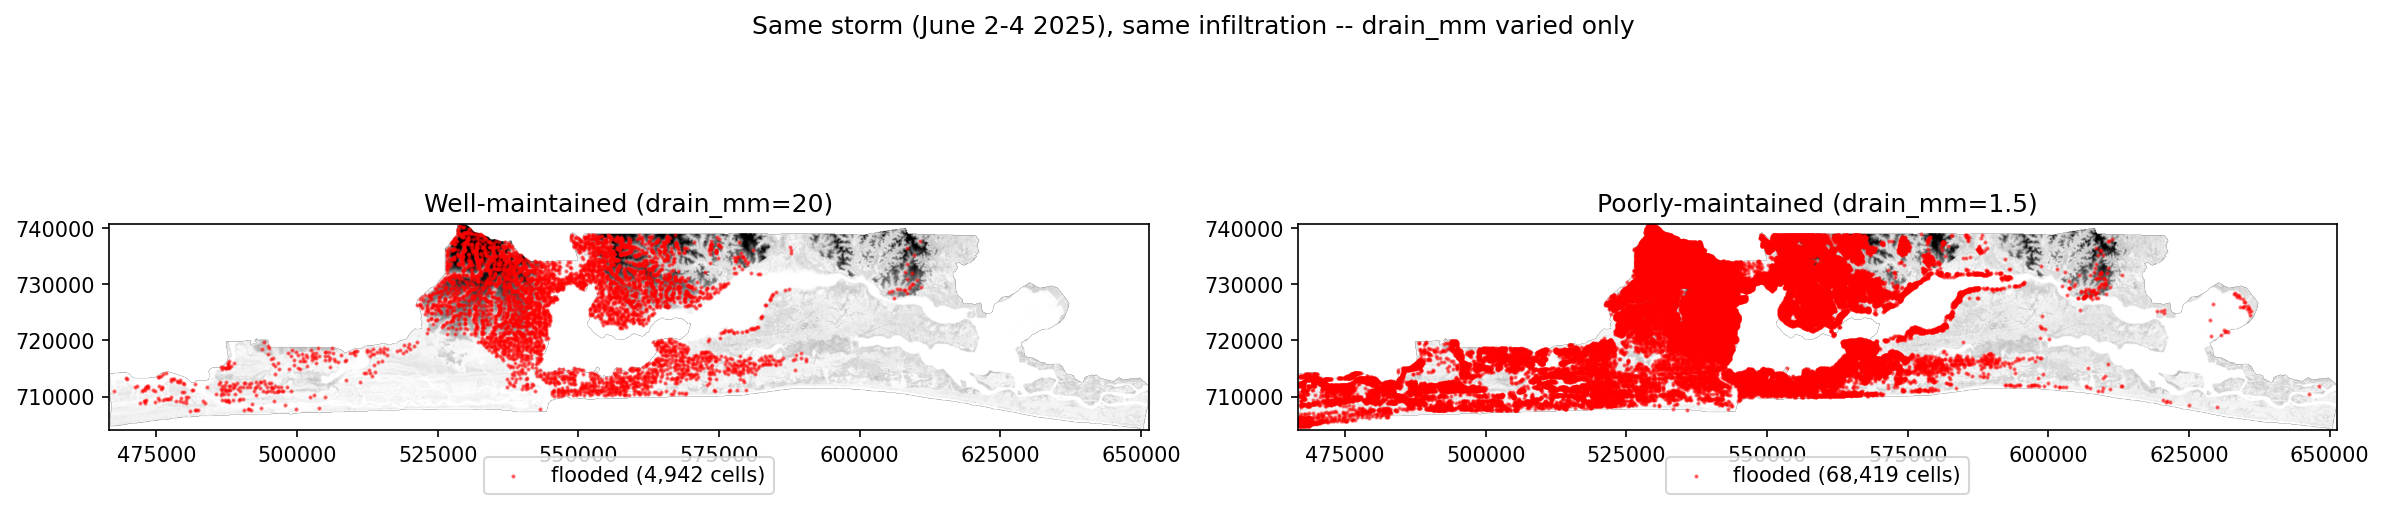
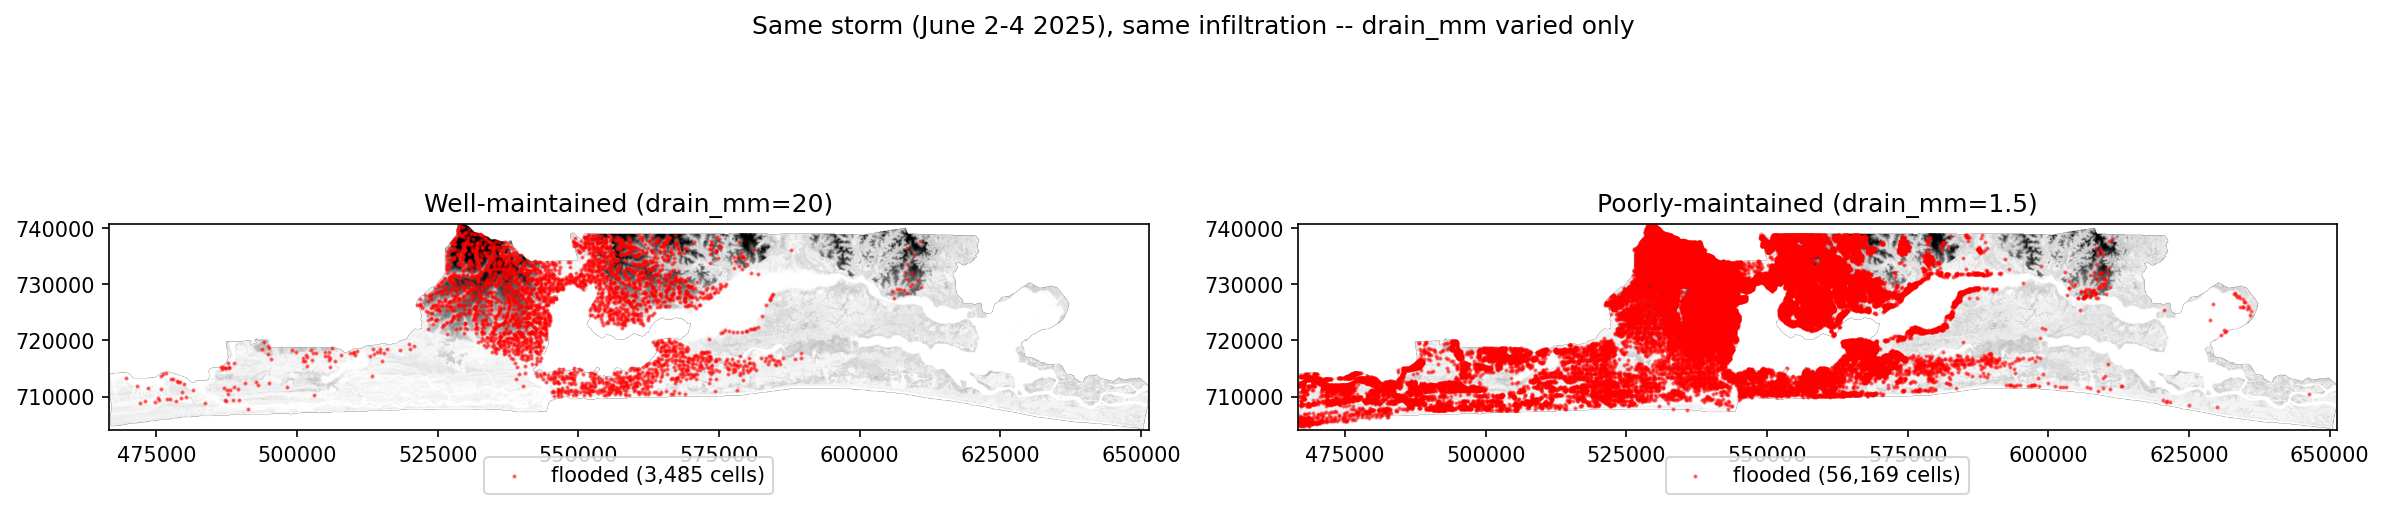
feat: standing-depth drainage (recession), closes out core mechanic
model/flood_model.py: at the start of each apply_rainfall() call, before
that day's rainfall is used, water_depth now drains by up to drain_mm
per cell (floored at zero, uniform including at pits, drained amount
added to exited_total_mm_cells). Sequenced before that day's
rainfall/routing/cap pipeline specifically so drain_mm isn't spent twice
against the same day's fresh water in one call. Pits get no special
handling -- this is a local, target-independent loss (soak-away, minor
conveyance, eventual pumping), consistent with how drain_mm already
worked, untargeted, against fresh rainfall before the per-hop cap
existed. This is what fixes the previously-flagged "never recedes" gap:
water_depth can now go down between calls, not just up.

scripts/smoke_test_drainage_scenarios.py: re-ran June 2-4 well (drain=20)
vs poor (drain=1.5). Final-day flooded 0.98% vs 15.82% (16.1x), built-up
core 4.28% vs 68.14%. Now that current and peak are distinguishable:
26.7% of well-maintained's peak-flooded cells had already receded by day
3, vs 0.01% under poor maintenance -- poor drainage doesn't just flood
more, it keeps what floods underwater far longer, a distinct axis of the
human-cost argument from extent alone.

CLAUDE.md Phase 3: recession note updated from provisional-pending to
implemented-with-results. Added two deferred items per request:
exited_total_mm_cells currently conflates two physical fates (surface-
routing exit vs. standing-depth recession) and may be worth splitting;
[…]

diff --git a/model/flood_model.py b/model/flood_model.py
@@ -79,6 +79,21 @@ Checked empirically at drain_mm=1.5 (the more constrained of the two
 tested scenarios): hop counts stayed in the same range as the uncapped
 version, no sign of the slow-convergence failure mode.
 
+Standing-depth drainage (recession): at the start of each apply_rainfall()
+call, before that day's rainfall is used at all, water_depth is reduced
+by up to drain_mm per cell, floored at zero, applied uniformly including
+at pits, with the drained amount added to exited_total_mm_cells. This is
+what fixes the previously-flagged "never recedes" gap -- water_depth can
+now go down between calls, not just up. Sequencing is deliberate: this
+happens BEFORE today's rainfall/routing/cap pipeline, not after and not
+merged with it, specifically so drain_mm isn't spent twice on the same
+day's fresh water (once here against old depth, again via the per-hop
+cap against new depth). Pits get no special-casing: this is a local,
+target-independent loss (soak-away, minor unmodeled conveyance, eventual
+pumping), not routing, so "no downhill neighbor" is irrelevant to it --
+consistent with how drain_mm was already used untargeted against fresh
+rainfall before the per-hop cap existed.
+
 Known limitation, not resolved here: infil_mm/drain_mm are still applied
 once per *daily* call as flat hourly-rate-shaped numbers, not scaled to
 a day. Less severe now that infiltration is land-cover-grounded rather
@@ -267,21 +282,41 @@ class FloodModel(mesa.Model):
 
     def apply_rainfall(self, rainfall_mm):
         """
-        One day's step: apply `rainfall_mm` (2D array, (height, width), mm,
-        a single day's CHIRPS total) as a pulse, run infiltration + drainage
+        One day's step: first drain existing standing depth by up to
+        drain_mm (see module docstring, "Standing-depth drainage"), then
+        apply `rainfall_mm` (2D array, (height, width), mm, a single day's
+        CHIRPS total) as a pulse, run infiltration + drainage
         once, then route whatever's left downhill along the flow direction
         field -- repeatedly, until every unit of mobile water has either
         settled at a pit or exited via a flat/off-domain boundary (or the
         defensive hop cap is hit; see module docstring for why that's not
         expected to bind).
 
-        Returns (depth_added, n_hops): this day's contribution to standing
-        depth, and how many routing hops it took to converge -- surfaced
-        for smoke-test / validation reporting, not needed for the state
-        update itself (which already happened, on self.water_depth).
+        Returns (depth_added, n_hops): this day's newly-settled contribution
+        to standing depth (pits + capacity-capped excess from today's
+        rainfall only -- does NOT include the standing-depth drainage
+        applied at the top of this call, which reduces self.water_depth
+        directly before depth_added is even computed), and how many
+        routing hops it took to converge. Surfaced for smoke-test /
+        validation reporting, not needed for the state update itself
+        (which already happened, on self.water_depth).
         """
         valid = self.valid_mask
         flow_dir = self.grid.properties["flow_direction"].data.T
+
+        # Standing-depth drainage: reduce whatever's already accumulated
+        # from previous calls by up to drain_mm, floored at zero, BEFORE
+        # today's rainfall enters the picture at all. Applied uniformly to
+        # every valid cell, pits included -- see module docstring for why
+        # pits get no special-casing here (this is a local, target-independent
+        # loss, not routing) and why "before" rather than "after" today's
+        # pipeline (avoids applying drain_mm twice to the same day's fresh
+        # water, which already goes through the per-hop outflow cap below).
+        water_layer = self.grid.properties["water_depth"]
+        standing = water_layer.data.T
+        drained_standing = np.minimum(standing, self.drain_mm)
+        water_layer.data = (standing - drained_standing).T.copy()
+        self.exited_total_mm_cells += float(drained_standing[valid].sum())
 
         water = np.where(valid, rainfall_mm, 0.0).astype("float64")
         infil = np.minimum(water, self.infil_mm)

diff --git a/scripts/smoke_test_drainage_scenarios.py b/scripts/smoke_test_drainage_scenarios.py
@@ -59,15 +59,17 @@ def run_scenario(data, drain_mm, label):
     model = FloodModel(data["elev"], data["flow_dir"], data["valid"],
                         infil_mm=infil_array, drain_mm=drain_mm)
     hop_counts = []
+    daily_depth_snapshots = []
     for rain in data["daily_rain"]:
         _, n_hops = model.apply_rainfall(rain)
         hop_counts.append(n_hops)
+        daily_depth_snapshots.append(model.water_depth.copy())
     flooded = model.flooded_mask
     print(f"  routing hops per day: {hop_counts} (cap={model.MAX_ROUTING_HOPS})")
-    return model, flooded
+    return model, flooded, daily_depth_snapshots
 
 
-def describe_scenario(data, model, flooded, label):
+def describe_scenario(data, model, flooded, daily_depth_snapshots, label):
     valid = data["valid"]
     n_valid = int(valid.sum())
     n_flooded = int(flooded.sum())
@@ -75,6 +77,21 @@ def describe_scenario(data, model, flooded, label):
     print(f"Flooded: {n_flooded:,} / {n_valid:,} ({100*n_flooded/n_valid:.2f}%)")
     print(f"Max standing depth: {model.water_depth[valid].max():.1f}mm")
     print(f"Exited total: {model.exited_total_mm_cells:,.0f} mm*cells")
+
+    # --- final day vs cumulative peak: only meaningful now that depth can recede ---
+    final_depth = daily_depth_snapshots[-1]
+    peak_depth = np.maximum.reduce(daily_depth_snapshots)
+    final_flooded = (final_depth >= model.flood_threshold_mm) & valid
+    peak_flooded = (peak_depth >= model.flood_threshold_mm) & valid
+    n_final = int(final_flooded.sum())
+    n_peak = int(peak_flooded.sum())
+    receded = int((peak_flooded & ~final_flooded).sum())
+    print(f"\nFinal-day (day 3) flooded: {n_final:,} / {n_valid:,} ({100*n_final/n_valid:.2f}%)")
+    print(f"Cumulative peak (any of the 3 days) flooded: {n_peak:,} / {n_valid:,} ({100*n_peak/n_valid:.2f}%)")
+    print(f"Cells that peaked flooded but had receded below threshold by day 3: {receded:,} "
+          f"({100*receded/n_peak:.2f}% of peak, if peak>0)" if n_peak else "")
+    print(f"Final-day max depth: {final_depth[valid].max():.1f}mm  |  "
+          f"Peak (any day) max depth: {peak_depth[valid].max():.1f}mm")
 
     lc, lc_bands, ward_id, lookup = data["lc"], data["lc_bands"], data["ward_id"], data["lookup"]
     built_up = np.nan_to_num(lc[lc_bands.index("built_up")], nan=0.0)
@@ -130,11 +147,11 @@ def main():
     data = load_grid()
     print("Rainy stretch:", ", ".join(data["daily_labels"]))
 
-    model_wet, flooded_wet = run_scenario(data, 20.0, "WELL-MAINTAINED")
-    stats_wet = describe_scenario(data, model_wet, flooded_wet, "WELL-MAINTAINED (drain_mm=20)")
+    model_wet, flooded_wet, snaps_wet = run_scenario(data, 20.0, "WELL-MAINTAINED")
+    stats_wet = describe_scenario(data, model_wet, flooded_wet, snaps_wet, "WELL-MAINTAINED (drain_mm=20)")
 
-    model_poor, flooded_poor = run_scenario(data, 1.5, "POORLY-MAINTAINED")
-    stats_poor = describe_scenario(data, model_poor, flooded_poor, "POORLY-MAINTAINED (drain_mm=1.5)")
+    model_poor, flooded_poor, snaps_poor = run_scenario(data, 1.5, "POORLY-MAINTAINED")
+    stats_poor = describe_scenario(data, model_poor, flooded_poor, snaps_poor, "POORLY-MAINTAINED (drain_mm=1.5)")
 
     print(f"\n{'='*60}\nCOMPARISON\n{'='*60}")
     print(f"Overall flooded: {100*stats_wet['n_flooded']/stats_wet['n_valid']:.2f}% (well) vs "

diff --git a/CLAUDE.md b/CLAUDE.md
@@ -104,7 +104,11 @@ Important distinction to hold onto: "starting fresh" means a new environment lay
 - **Model time step: decided on daily CHIRPS rainfall**, not hourly. Considered against two alternatives: NASA IMERG (real hourly data, but introduces this project's first auth requirement and a second, coarser resolution-mismatch story on top of the one already documented in `docs/methodology-notes.md`), and disaggregated hourly CHIRPS (an invented within-day shape layered on top of a real daily total — the least defensible option, since it weakens the "calibrated against a real event" claim at exactly the point a reviewer would first push on it). Reasoning: stays consistent with the zero-auth, real-data-only pattern used throughout Phase 1; the core governance argument depends on differentiating outcomes by drainage/infiltration/elevation, not by sub-daily rainfall shape, so within-day intensity isn't load-bearing for what the model needs to demonstrate; and daily stepping directly addresses the 38.5%-flooded artifact produced by forcing a whole month's rainfall through one hourly-capacity hop in the first smoke test. This reframes storm duration from minutes to number of rainy days, and storm intensity from a single value to mm/day — an evolution of the original four-parameter design for the real-data context, not a departure from it. IMERG remains a possible future upgrade for a specific, well-documented calibration event, not pursued now.
 - Add a first-pass vulnerability layer per ward (population density or income proxy) — this is where the human-cost argument becomes spatial and the MEGADAPT framing becomes concretely implementable
 - **Conveyance-capacity limit: implemented.** `model/flood_model.py`'s routing loop now caps how much water a directed (non-pit) cell can pass downstream per hop at `drain_mm`, reusing the existing scenario parameter rather than inventing a new one — excess settles as standing depth at that cell immediately, the same way a pit's local leftover already does. This closed the gap the note above used to describe: the June 2-4 daily smoke test no longer shows 100% pit-only flooding (well-maintained: 60.6% pit / 39.4% non-pit; poorly-maintained: 7.8% pit / 92.2% non-pit — see `data/README.md` "Infiltration parameterization" entry and `scripts/smoke_test_drainage_scenarios.py`).
-- **PROVISIONAL — no recession mechanism yet.** Traced explicitly: `water_depth` is currently add-only. Nothing in `apply_rainfall()` ever reduces standing depth once it's settled — not across hops within a day, not across subsequent days, not even through a dry day (zero rainfall in produces zero change to standing depth, it doesn't drain on its own). This means flood extent and depth in this model can only grow across a multi-day event, never recede, which doesn't match real flood behavior. **Every multi-day result produced so far (including the June 2-4 well/poor drainage comparison: 1.39% vs 19.27% flooded, built-up core 5.99% vs 74.48%) is a peak-accumulated high-water mark, not a snapshot that could recede — treat these numbers as provisional until a recession mechanism (draining standing depth via `drain_mm` over subsequent calls, worked through but not yet implemented) lands and the comparison is re-run.** Evaporation as a separate loss term, and re-mobilizing already-settled water back into the flow network, are both real further refinements, deliberately deferred past the recession fix itself.
+- **Recession mechanism: implemented.** At the start of each `apply_rainfall()` call, before that day's rainfall is used, `water_depth` is reduced by up to `drain_mm` per cell (floored at zero, applied uniformly including at pits, drained amount added to `exited_total_mm_cells`) — sequenced *before* that day's rainfall/routing/cap pipeline specifically so `drain_mm` isn't spent twice against the same day's fresh water. Re-ran the June 2-4 comparison: flooded 0.98% (well) vs 15.82% (poor), built-up core 4.28% vs 68.14%. The recession itself is now visible and tells its own story: under well-maintained drainage, 26.7% of cells that peaked flooded during the 3-day event had already receded below threshold by day 3; under poor maintenance, only 0.01% had — meaning poor drainage doesn't just flood more, it keeps what floods underwater far longer, which is its own distinct piece of the human-cost argument (duration, not just occurrence). Not yet resolved, deferred rather than solved:
+  - Evaporation as a separate loss term (recession here is drainage-only).
+  - Re-mobilizing already-settled water back into the flow network (once water settles, whether via a pit or the recession drain, it never resumes moving downhill — it can only shrink in place).
+  - `exited_total_mm_cells` currently combines two different physical fates into one counter — water that exited via surface routing (a flat/water boundary or off-domain edge) and water that drained out of standing depth via the new recession step — worth splitting into two counters later if the distinction ever matters for reporting.
+  - The per-hop outflow cap in the routing loop technically resets every hop, not every day, so a busy cell touched by many hops in one day's convergence could in principle convey more than one day's worth of `drain_mm` in total. Worth checking whether this is ever materially inflating a cell's effective daily throughput — not urgent given what's been observed so far (hop counts stayed low, 9-39, in every scenario tested).
 
 **Phase 4 — Interactive layer**
 - Wire the rebuilt model into Mesa 3.x SolaraViz with a `SpaceRenderer` over the real Lagos raster

diff --git a/data/README.md b/data/README.md
@@ -305,18 +305,22 @@ number:
 See `scripts/smoke_test_drainage_scenarios.py` and
 `data/processed/drainage_scenario_comparison.png` for the same-storm,
 same-infiltration, drain_mm-only comparison run against these two
-values: 1.39% flooded (well-maintained) vs 19.27% (poorly-maintained),
-built-up core 5.99% vs 74.48%.
+values, now with recession implemented (`water_depth` drains by up to
+`drain_mm` per cell at the start of each call, before that day's
+rainfall — see CLAUDE.md Phase 3): **final-day (day 3) flooded 0.98%
+(well-maintained) vs 15.82% (poorly-maintained), built-up core 4.28% vs
+68.14%.** Cumulative peak across the 3 days (any cell that crossed
+threshold on any day, whether or not it had receded by day 3): 1.34%
+(well) vs 15.82% (poor) — under well-maintained drainage, 26.7% of
+peak-flooded cells had already receded below threshold by day 3; under
+poor maintenance, essentially none had (0.01%). Not just "floods less,"
+but "clears fast" — a distinct, separate consequence of drainage
+quality from extent alone.
 
-**PROVISIONAL — these are peak-accumulated numbers, not a stable
-result.** `water_depth` currently only ever grows across the 3-day run;
-nothing drains it back down, not between hops, not between days, not
-even through a hypothetical dry day. Every number in this comparison is
-a high-water mark accumulated over June 2-4, not a snapshot that could
-recede the way a real flood does. Treat as provisional until a
-recession mechanism lands (draining standing depth via `drain_mm` over
-subsequent calls — mechanics worked through, not yet implemented) and
-this comparison is re-run. See CLAUDE.md Phase 3 for the fuller note.
+Prior to recession being implemented, this comparison showed 1.39% vs
+19.27% flooded as an add-only, non-receding accumulation — those
+numbers are superseded by the above, kept here only as a record of what
+"provisional" meant at the time.
 
 **Open asymmetry, not urgent, worth revisiting alongside the conveyance
 work:** `drain_mm` still applies uniformly to water/wetland/mangrove
